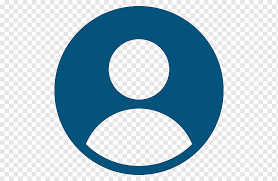
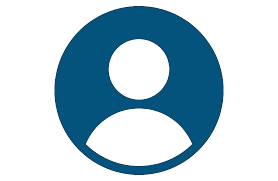
fixed wlallet search ui

Changed region(s): [[0.0, 0.0, 1.0, 1.0], [0.3165, 0.6077, 0.6906, 0.9116], [0.3741, 0.221, 0.6043, 0.5525]]

diff --git a/client/src/pages/PubkeyLookup.jsx b/client/src/pages/PubkeyLookup.jsx
@@ -1,5 +1,5 @@
 import { useState } from 'react';
-import { ArrowLeft, Loader2, Search } from 'lucide-react';
+import { ArrowLeft, Search, Wallet, User, Activity, Coins, Copy, Check } from 'lucide-react';
 import { useNavigate } from 'react-router-dom';
 import { useQuery } from '@tanstack/react-query';
 import { api } from '../lib/api.js';
@@ -13,12 +13,19 @@ export default function PubkeyLookupPage() {
   const navigate = useNavigate();
   const [address, setAddress] = useState('');
   const [submitted, setSubmitted] = useState('');
+  const [copied, setCopied] = useState(false);
 
   const run = async (e) => {
     e.preventDefault();
     const value = address.trim();
     if (!value) return;
     setSubmitted(value);
+  };
+
+  const handleCopy = (text) => {
+    navigator.clipboard.writeText(text);
+    setCopied(true);
+    setTimeout(() => setCopied(false), 2000);
   };
 
   const {
@@ -34,85 +41,179 @@ export default function PubkeyLookupPage() {
   const error = errObj?.message || '';
 
   return (
-    <div className="bg-surface mx-auto min-h-screen max-w-md px-4 pb-6 pt-4">
-      <header className="mb-4 flex items-center gap-3">
+    <div className="bg-surface mx-auto min-h-screen max-w-md px-4 pb-6 pt-4 font-sans selection:bg-accent/20">
+      <header className="mb-6 flex items-center gap-4">
         <button
           type="button"
           onClick={() => navigate(-1)}
-          className="rounded-full p-2 text-secondary-text hover:bg-surface-strong"
+          className="flex h-10 w-10 items-center justify-center rounded-full bg-card text-secondary-text shadow-sm transition-all hover:bg-surface-strong hover:text-primary-text active:scale-95"
         >
           <ArrowLeft className="h-5 w-5" />
         </button>
-        <h1 className="text-lg font-semibold text-primary-text">Find by public key</h1>
+        <h1 className="text-xl font-bold tracking-tight text-primary-text">Wallet Explorer</h1>
       </header>
 
-      <form onSubmit={run} className="mb-4">
-        <div className="relative">
-          <Search className="absolute left-3 top-1/2 h-4 w-4 -translate-y-1/2 text-secondary-text" />
+      <form onSubmit={run} className="mb-8">
+        <div className="relative group">
+          <div className="absolute inset-y-0 left-0 flex items-center pl-4 pointer-events-none transition-colors group-focus-within:text-accent text-secondary-text">
+            <Search className="h-5 w-5" />
+          </div>
           <input
             value={address}
             onChange={(e) => setAddress(e.target.value)}
-            placeholder="Paste Solana public key"
-            className="w-full rounded-2xl border border-border-color bg-card py-3 pl-10 pr-4 text-sm text-primary-text outline-none ring-accent focus:ring-1"
+            placeholder="Search Solana public key..."
+            className="w-full rounded-2xl border-2 border-border-color bg-card py-4 pl-12 pr-4 text-[15px] font-medium text-primary-text outline-none transition-all placeholder:text-muted-text focus:border-accent focus:bg-surface focus:shadow-[0_0_0_4px_rgba(0,82,255,0.1)]"
           />
+          <button
+            type="submit"
+            className="absolute right-2 top-1/2 -translate-y-1/2 rounded-xl bg-accent text-white px-4 py-2 text-sm font-semibold transition-all hover:bg-accent/90 active:scale-95 opacity-0 group-focus-within:opacity-100"
+            disabled={!address.trim()}
+          >
+            Search
+          </button>
         </div>
       </form>
 
       {loading && (
-        <div className="mb-4 flex items-center gap-2 text-sm text-secondary-text">
-          <Loader2 className="h-4 w-4 animate-spin" />
-          Fetching wallet details...
+        <div className="space-y-4 animate-pulse">
+          {[...Array(4)].map((_, i) => (
+            <div key={i} className="rounded-2xl border border-border-soft bg-card p-5">
+              <div className="mb-4 flex items-center gap-3">
+                <div className="h-8 w-8 rounded-full bg-border-color/50" />
+                <div className="h-4 w-24 rounded-full bg-border-color/50" />
+              </div>
+              <div className="space-y-2">
+                <div className="h-3 w-full rounded-full bg-border-color/30" />
+                <div className="h-3 w-2/3 rounded-full bg-border-color/30" />
+              </div>
+            </div>
+          ))}
         </div>
       )}
 
-      {error && <p className="mb-4 text-sm text-semantic-down">{error}</p>}
+      {error && (
+        <div className="rounded-2xl border border-semantic-down/20 bg-semantic-down/5 p-4 text-center">
+          <p className="text-sm font-medium text-semantic-down">{error}</p>
+        </div>
+      )}
 
-      {data && (
-        <div className="space-y-3">
-          <section className="rounded-2xl border border-border-color bg-card p-4">
-            <p className="text-xs text-secondary-text">Wallet</p>
-            <p className="mt-1 break-all text-sm text-primary-text">{data.address}</p>
+      {data && !loading && (
+        <div className="space-y-4 transition-all">
+          
+          {/* Wallet Address Card */}
+          <section className="group relative overflow-hidden rounded-2xl border border-border-color bg-gradient-to-br from-card to-surface p-5 shadow-sm transition-all hover:border-accent/30 hover:shadow-md">
+            <div className="absolute -right-4 -top-4 h-24 w-24 rounded-full bg-accent/5 blur-2xl" />
+            <div className="relative">
+              <div className="mb-3 flex items-center gap-2">
+                <Wallet className="h-5 w-5 text-accent" />
+                <h2 className="text-sm font-semibold text-primary-text">Wallet Address</h2>
+              </div>
+              <div className="flex items-center justify-between gap-3 rounded-xl bg-surface-strong p-3">
+                <p className="truncate text-sm font-medium text-primary-text">{data.address}</p>
+                <button
+                  type="button"
+                  onClick={() => handleCopy(data.address)}
+                  className="rounded-lg bg-surface p-2 text-secondary-text shadow-sm transition-all hover:text-accent active:scale-95 cursor-pointer"
+                >
+                  {copied ? <Check className="h-4 w-4 text-semantic-up" /> : <Copy className="h-4 w-4" />}
+                </button>
+              </div>
+            </div>
           </section>
 
-          <section className="rounded-2xl border border-border-color bg-card p-4">
-            <p className="text-sm font-medium text-primary-text">Identity</p>
-            <p className="mt-2 text-xs text-secondary-text">
-              SNS: {data.sns_domains?.length ? data.sns_domains.join(', ') : 'No SNS domain found'}
-            </p>
-            <p className="mt-1 text-xs text-secondary-text">
-              X: {data.socials?.twitter || data.socials?.x || 'Not linked'}
-            </p>
-          </section>
+          <div className="grid grid-cols-2 gap-4">
+            {/* Balances Card */}
+            <section className="col-span-2 sm:col-span-1 rounded-2xl border border-border-color bg-card p-5 shadow-sm transition-all hover:border-accent/30 hover:shadow-md">
+              <div className="mb-4 flex items-center gap-2">
+                <div className="flex h-8 w-8 items-center justify-center rounded-full bg-accent2/10">
+                  <Coins className="h-4 w-4 text-accent2" />
+                </div>
+                <h2 className="text-sm font-semibold text-primary-text">Balances</h2>
+              </div>
+              <div className="space-y-1">
+                <p className="text-2xl font-bold tracking-tight text-primary-text">
+                  {data.total_usd == null ? '—' : `$${num(data.total_usd, 2)}`}
+                </p>
+                <p className="text-sm font-medium text-secondary-text">{num(data.sol_balance)} SOL</p>
+              </div>
+            </section>
 
-          <section className="rounded-2xl border border-border-color bg-card p-4">
-            <p className="text-sm font-medium text-primary-text">Activity</p>
-            <p className="mt-2 text-xs text-secondary-text">{data.activity?.lastActiveText || 'Unknown'}</p>
-            <p className="mt-1 text-xs text-secondary-text">
-              {num(data.activity?.txCount30d, 0)} transactions in last 30 days
-            </p>
-          </section>
-
-          <section className="rounded-2xl border border-border-color bg-card p-4">
-            <p className="text-sm font-medium text-primary-text">Balances</p>
-            <p className="mt-2 text-xs text-secondary-text">SOL: {num(data.sol_balance)} SOL</p>
-            <p className="mt-1 text-xs text-secondary-text">
-              Portfolio value: {data.total_usd == null ? '—' : `$${num(data.total_usd, 2)}`}
-            </p>
-          </section>
-
-          <section className="rounded-2xl border border-border-color bg-card p-4">
-            <p className="mb-2 text-sm font-medium text-primary-text">Top Holdings</p>
-            <div className="space-y-2">
-              {(data.top_holdings || []).length === 0 && <p className="text-xs text-secondary-text">No token data</p>}
-              {(data.top_holdings || []).map((token) => (
-                <div key={`${token.symbol}-${token.name}`} className="flex items-center justify-between text-xs">
-                  <div>
-                    <p className="text-primary-text font-medium">{token.symbol || token.name}</p>
-                    <p className="text-secondary-text">{num(token.balance)}</p>
-                  </div>
-                  <p className="text-primary-text font-medium">
-                    {token.value_usd == null ? '—' : `$${num(token.value_usd, 2)}`}
+            {/* Identity Card */}
+            <section className="col-span-2 sm:col-span-1 rounded-2xl border border-border-color bg-card p-5 shadow-sm transition-all hover:border-accent/30 hover:shadow-md">
+              <div className="mb-4 flex items-center gap-2">
+                <div className="flex h-8 w-8 items-center justify-center rounded-full bg-accent/10">
+                  <User className="h-4 w-4 text-accent" />
+                </div>
+                <h2 className="text-sm font-semibold text-primary-text">Identity</h2>
+              </div>
+              <div className="space-y-3">
+                <div>
+                  <p className="text-[11px] font-semibold uppercase tracking-wider text-muted-text">SNS</p>
+                  <p className="text-sm font-medium text-primary-text truncate">
+                    {data.sns_domains?.length ? data.sns_domains.join(', ') : 'No domain'}
                   </p>
+                </div>
+                <div>
+                  <p className="text-[11px] font-semibold uppercase tracking-wider text-muted-text">Social</p>
+                  <p className="text-sm font-medium text-primary-text truncate">
+                    {data.socials?.twitter || data.socials?.x || 'Not linked'}
+                  </p>
+                </div>
+              </div>
+            </section>
+          </div>
+
+          {/* Activity Card */}
+          <section className="rounded-2xl border border-border-color bg-card p-5 shadow-sm transition-all hover:border-accent/30 hover:shadow-md">
+            <div className="mb-4 flex items-center gap-2">
+              <div className="flex h-8 w-8 items-center justify-center rounded-full bg-accent-yellow/10">
+                <Activity className="h-4 w-4 text-accent-yellow" />
+              </div>
+              <h2 className="text-sm font-semibold text-primary-text">Recent Activity</h2>
+            </div>
+            <div className="flex items-center justify-between">
+              <div>
+                <p className="text-sm font-medium text-primary-text">{data.activity?.lastActiveText || 'Unknown'}</p>
+                <p className="text-xs text-secondary-text mt-1">Last Active</p>
+              </div>
+              <div className="text-right">
+                <p className="text-sm font-medium text-primary-text">{num(data.activity?.txCount30d, 0)}</p>
+                <p className="text-xs text-secondary-text mt-1">30d TXs</p>
+              </div>
+            </div>
+          </section>
+
+          {/* Top Holdings Card */}
+          <section className="rounded-2xl border border-border-color bg-card p-5 shadow-sm transition-all hover:border-accent/30 hover:shadow-md">
+            <div className="mb-5 flex items-center justify-between">
+              <h2 className="text-sm font-semibold text-primary-text">Top Holdings</h2>
+              <span className="rounded-full bg-surface-strong px-2.5 py-1 text-[11px] font-semibold text-secondary-text">
+                {(data.top_holdings || []).length} Tokens
+              </span>
+            </div>
+
+            <div className="">
+              {(data.top_holdings || []).length === 0 && (
+                <p className="text-center text-sm text-secondary-text py-4">No token data available</p>
+              )}
+              {(data.top_holdings || []).map((token) => (
+                <div key={`${token.symbol}-${token.name}`} className="group flex items-center justify-between rounded-xl  p-3 transition-colors hover:bg-surface-strong border-b border-border-color/50">
+                  <div className="flex items-center gap-3">
+                    <div className="flex h-10 w-10 items-center justify-center rounded-full bg-gradient-to-br from-card to-border-soft font-bold text-primary-text text-sm shadow-sm border border-border-soft shrink-0">
+                      {(token.symbol || token.name).charAt(0).toUpperCase()}
+                    </div>
+                    <div className="min-w-0">
+                      <p className="text-sm font-bold text-primary-text group-hover:text-accent transition-colors truncate max-w-[120px]">
+                        {token.symbol || token.name}
+                      </p>
+                      <p className="text-[13px] font-medium text-secondary-text truncate">{num(token.balance)}</p>
+                    </div>
+                  </div>
+                  <div className="text-right shrink-0">
+                    <p className="text-sm font-bold text-primary-text">
+                      {token.value_usd == null ? '—' : `$${num(token.value_usd, 2)}`}
+                    </p>
+                  </div>
                 </div>
               ))}
             </div>

diff --git a/client/src/App.jsx b/client/src/App.jsx
@@ -9,6 +9,7 @@ import Wallet from './pages/Wallet.jsx';
 import SearchPage from './pages/Search.jsx';
 import PubkeyLookupPage from './pages/PubkeyLookup.jsx';
 import Navbar from './components/Navbar.jsx';
+import Chats from './pages/chats.jsx';
 
 function PrivateRoute({ children }) {
   const { user, loading } = useAuth();
@@ -74,6 +75,14 @@ export default function App() {
           element={
             <PrivateRoute>
               <PubkeyLookupPage />
+            </PrivateRoute>
+          }
+        />
+        <Route
+          path="/chats"
+          element={
+            <PrivateRoute>
+              <Chats />
             </PrivateRoute>
           }
         />